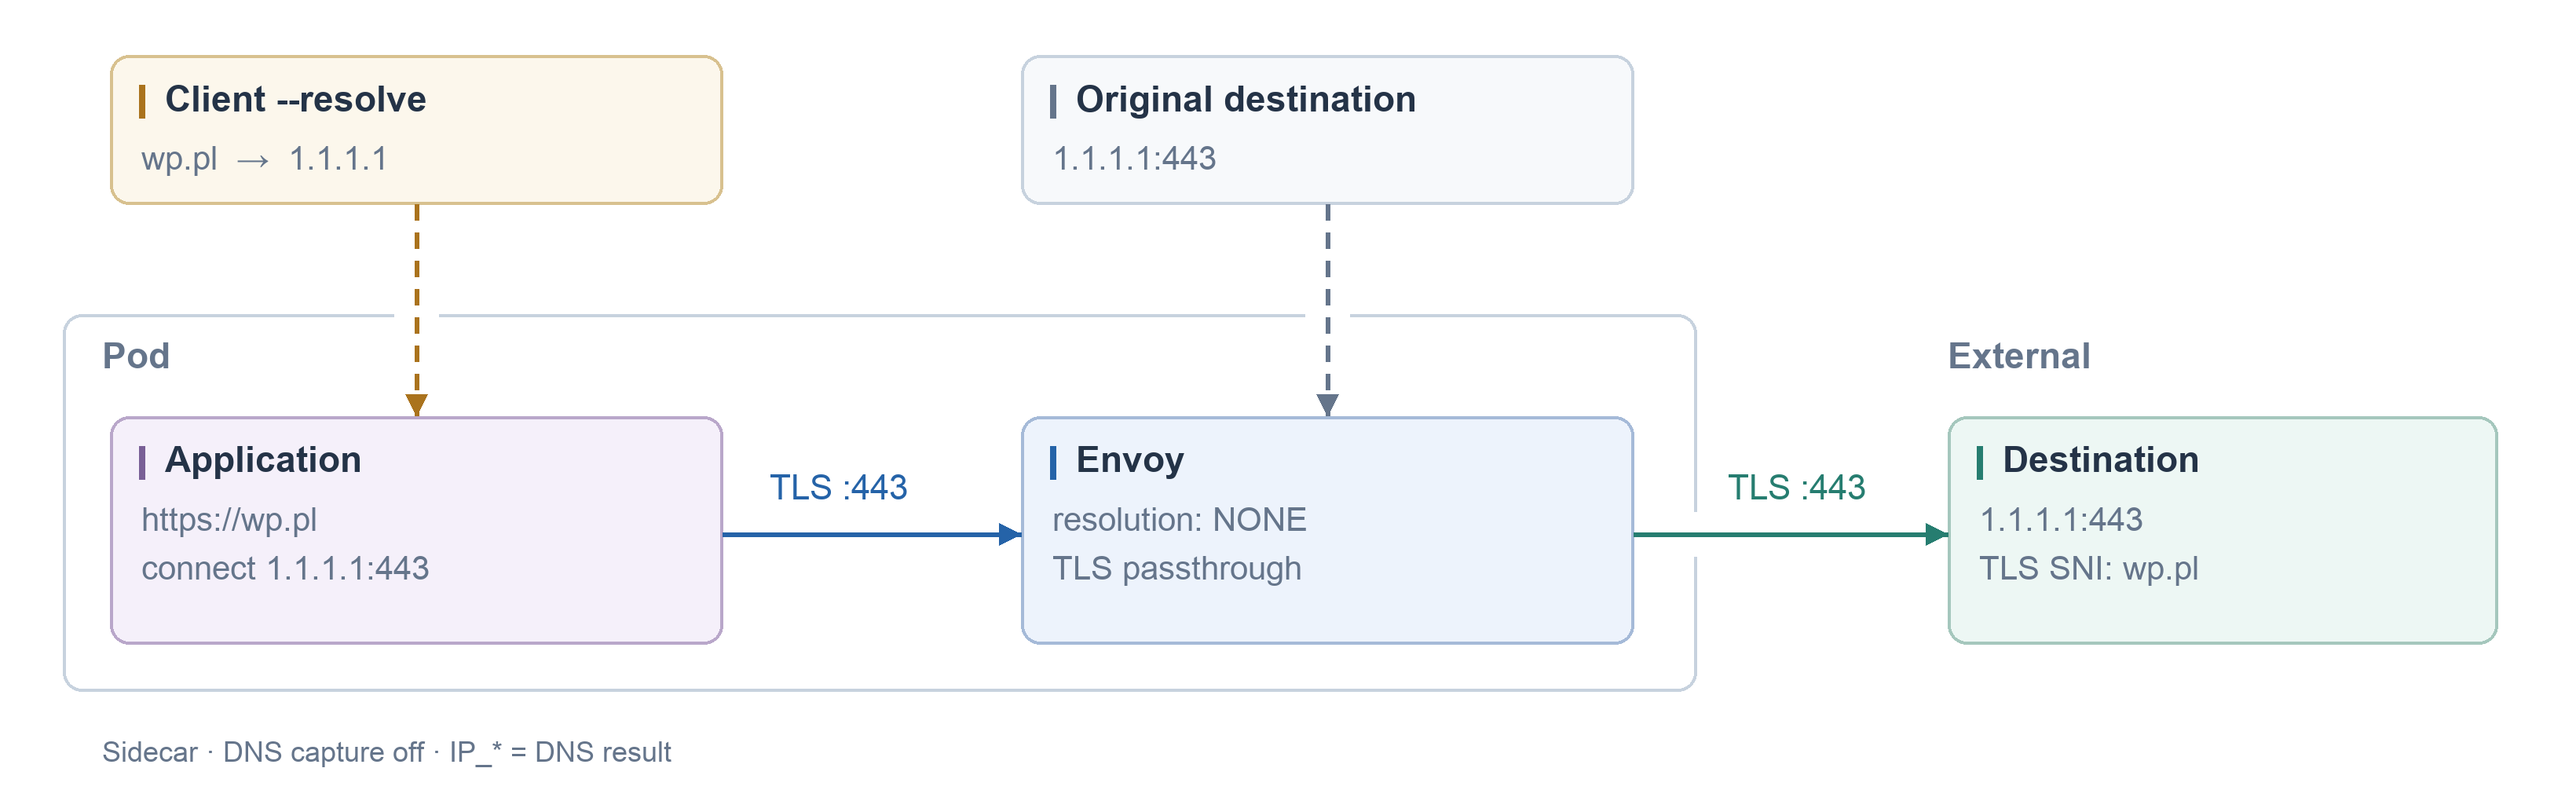
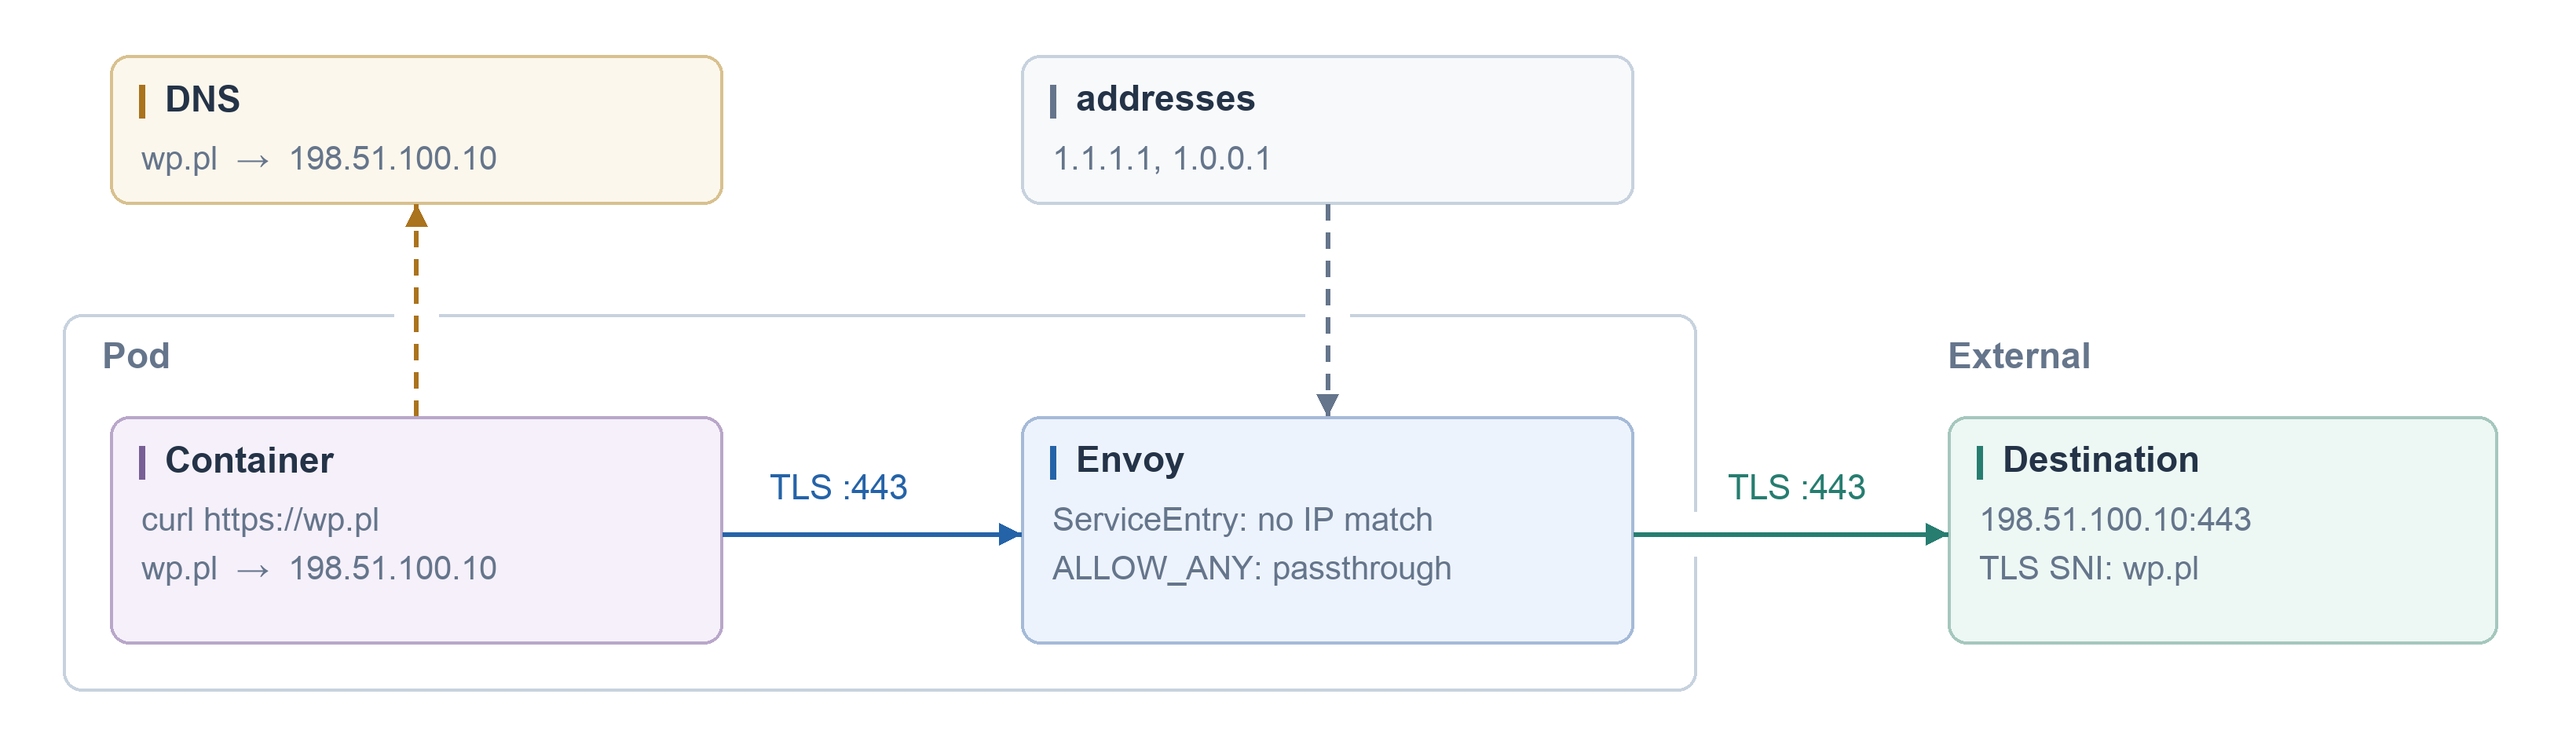
# Show curl and concrete DNS results in ServiceEntry diagrams
Remove diagram footers and label resolvers simply DNS. Show a container
running curl, its illustrative DNS address, and the upstream socket in
all five diagrams.

Replace the NONE example's forced client address with ordinary DNS and
show the explicitly labeled ALLOW_ANY fallback when addresses do not
match. Document the renderer's example IP assumptions.

## Validation

Reviewed all five PNGs, checked Python syntax and labels, and confirmed
generated outputs match their sources. No live cluster requests.

diff --git a/scripts/render_service_entry.py b/scripts/render_service_entry.py
@@ -14,7 +14,9 @@ import yaml
 
 ROOT = Path(__file__).resolve().parents[1]
 SCALE = 2
-SIZE = (1640, 510)
+SIZE = (1640, 470)
+# Illustrative DNS answers from RFC 5737; never query live endpoints when rendering.
+DNS_ANSWERS = {"wp.pl": "198.51.100.10", "backend.wp.pl": "198.51.100.20"}
 INK, MUTED, BORDER = "#243347", "#65758b", "#c7d2de"
 BLUE, AMBER, GREEN = "#2563a8", "#aa731d", "#267d70"
 STYLES = {
@@ -113,20 +115,20 @@ def render(example: Example, resources: list[dict]) -> Image.Image:
     origination = any(resource["kind"] == "DestinationRule" for resource in resources)
     original = mode == "NONE"
     endpoint = entry.get("endpoints", [{}])[0].get("address", host)
-    app_ip = entry["addresses"][0] if original else "IP_APP"
+    app_ip = DNS_ANSWERS[host]
     proxy_ip = (app_ip if original else endpoint if mode == "STATIC"
-                else "IP_BACKEND" if endpoint != host else "IP_PROXY")
+                else DNS_ANSWERS[endpoint])
     upstream_port = port.get("targetPort", port["number"])
     c = Canvas()
 
-    c.card(70, 35, 390, 95, "Client --resolve" if original else "Application DNS",
+    c.card(70, 35, 390, 95, "DNS",
            [f"{host}  →  {app_ip}"], "dns")
     if mode == "DNS":
-        c.card(650, 35, 390, 95, "Envoy DNS",
+        c.card(650, 35, 390, 95, "DNS",
                [f"{endpoint}  →  {proxy_ip}"], "dns")
     else:
-        c.card(650, 35, 390, 95, "Original destination" if original else "Static endpoint",
-               [f"{proxy_ip}:{upstream_port}"], "neutral")
+        c.card(650, 35, 390, 95, "addresses" if original else "endpoints",
+               [", ".join(entry["addresses"]) if original else endpoint], "neutral")
 
     c.box(40, 200, 1040, 240, "white", BORDER)
     for x in (265, 845):
@@ -134,23 +136,24 @@ def render(example: Example, resources: list[dict]) -> Image.Image:
     c.line([(1080, 326), (1080, 354)], "white", width=6)
     c.text(65, 218, "Pod", 23, MUTED, True)
     c.text(1240, 218, "External", 23, MUTED, True)
-    c.arrow([(265, 130), (265, 265)] if original else [(265, 265), (265, 130)], AMBER, True)
+    c.arrow([(265, 265), (265, 130)], AMBER, True)
     c.arrow([(845, 265), (845, 130)] if mode == "DNS" else [(845, 130), (845, 265)],
             AMBER if mode == "DNS" else MUTED, True)
 
-    c.card(70, 265, 390, 145, "Application",
-           [f"{'http' if origination else 'https'}://{host}",
-            f"connect {app_ip}:{port['number']}"], "app")
+    c.card(70, 265, 390, 145, "Container",
+           [f"curl {'http' if origination else 'https'}://{host}",
+            f"{host}  →  {app_ip}"], "app")
+    proxy_lines = (["ServiceEntry: no IP match", "ALLOW_ANY: passthrough"] if original
+                   else [f"targetPort: {upstream_port}" if origination else f"resolution: {mode}",
+                         "TLS: SIMPLE" if origination else "TLS passthrough"])
     c.card(650, 265, 390, 145, "Envoy",
-           [f"targetPort: {upstream_port}" if origination else f"resolution: {mode}",
-            "TLS: SIMPLE" if origination else "TLS passthrough"], "proxy")
+           proxy_lines, "proxy")
     c.card(1240, 265, 350, 145, "Destination",
            [f"{proxy_ip}:{upstream_port}", f"TLS SNI: {host}"], "target")
     c.arrow([(460, 340), (650, 340)])
     c.text(490, 302, f"{'HTTP' if origination else 'TLS'} :{port['number']}", 22, BLUE)
     c.arrow([(1040, 340), (1240, 340)], GREEN)
     c.text(1100, 302, f"TLS :{upstream_port}", 22, GREEN)
-    c.text(65, 472, "Sidecar · DNS capture off · IP_* = DNS result", 18, MUTED)
     return c.image
 
 

diff --git a/AGENTS.md b/AGENTS.md
@@ -2,6 +2,6 @@
 
 This repository contains small, independent Istio training examples. Follow the sibling istio-setup documentation style: README.md is a links-only index; topic pages start directly with short preparation/example headings. Use English for descriptions and diagrams. ServiceEntry variants are alternatives for the same host, not a combined installation. Preserve the current branch and unrelated changes; commit/push only when requested.
 
-service-entry/*.yaml are the canonical copyable manifests. README.service-entry.md contains only example headings, YAML blocks and PNGs from images/service-entry/. scripts/render_service_entry.py renders the five diagrams and regenerates the topic page from these manifests. Keep diagrams compact: application, Envoy, destination, DNS results and protocol/port labels. Do not add explanatory paragraphs, callout cards, legends or repeated titles. The renderer uses Pillow and PyYAML and has no network or cluster access. Diagrams assume sidecar mode with DNS capture disabled; resolution NONE preserves the client-selected destination (shown with --resolve), STATIC chooses the upstream address, and TLS origination uses targetPort to change ports.
+service-entry/*.yaml are the canonical copyable manifests. README.service-entry.md contains only example headings, YAML blocks and PNGs from images/service-entry/. scripts/render_service_entry.py renders the five diagrams and regenerates the topic page from these manifests. Each Pod shows a Container running plain curl http://wp.pl or curl https://wp.pl, its resolved IP, Envoy and the upstream socket. Resolver labels must be just DNS. Do not add footers, explanatory paragraphs, callout cards, legends or repeated titles. The offline Pillow/PyYAML renderer uses illustrative RFC 5737 DNS answers: wp.pl = 198.51.100.10 and backend.wp.pl = 198.51.100.20; these are not real DNS measurements. Assume sidecar mode with DNS capture disabled. For NONE, plain curl receives the DNS IP, which does not match the supplied addresses; show the explicitly labeled ALLOW_ANY passthrough case, never fabricate DNS rewriting or use --resolve. STATIC selects the configured destination, and TLS origination uses targetPort to change ports.
 
 Regenerate with python3 scripts/render_service_entry.py using an existing Python environment with Pillow and PyYAML; do not install dependencies without authorization. PNG output is reproducible with the same Pillow and fonts (Arial on macOS, DejaVu Sans fallback on Linux); --check compares generated Markdown and image pixels without writing files. Review every rendered image, parse the YAML, validate against locally available Istio schemas when possible, and review Git diff/status before committing. Do not apply manifests, start services, or contact example endpoints during verification. The documentation describes intended routing, not a verified live environment.
